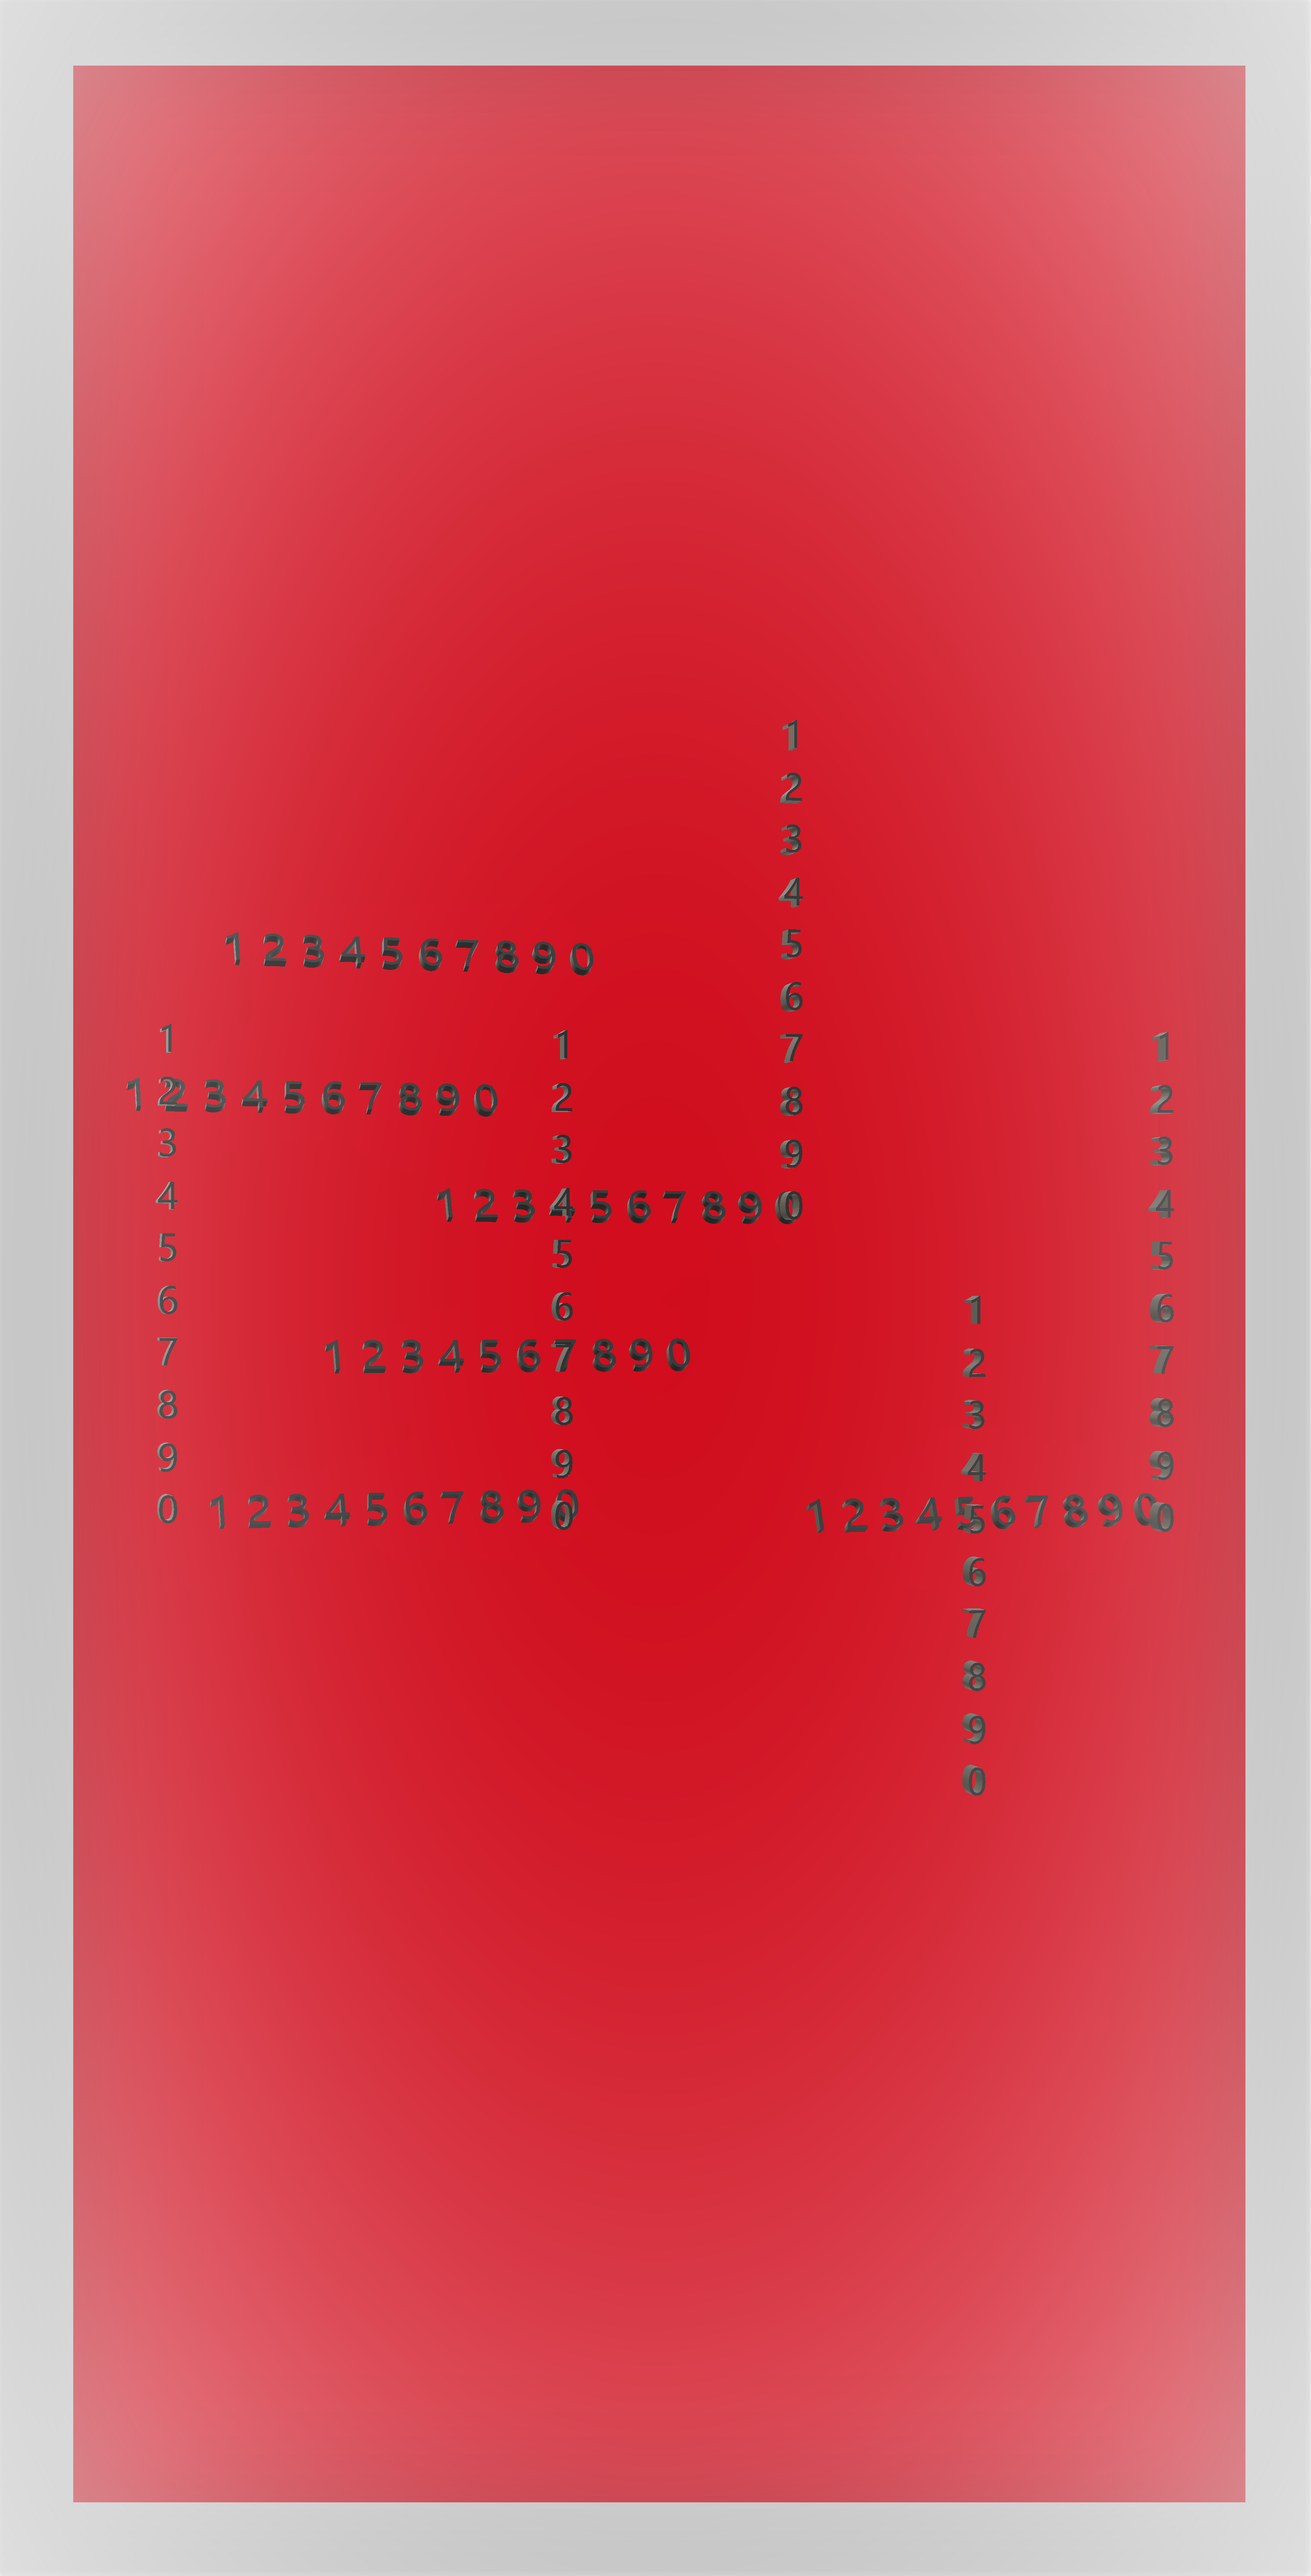
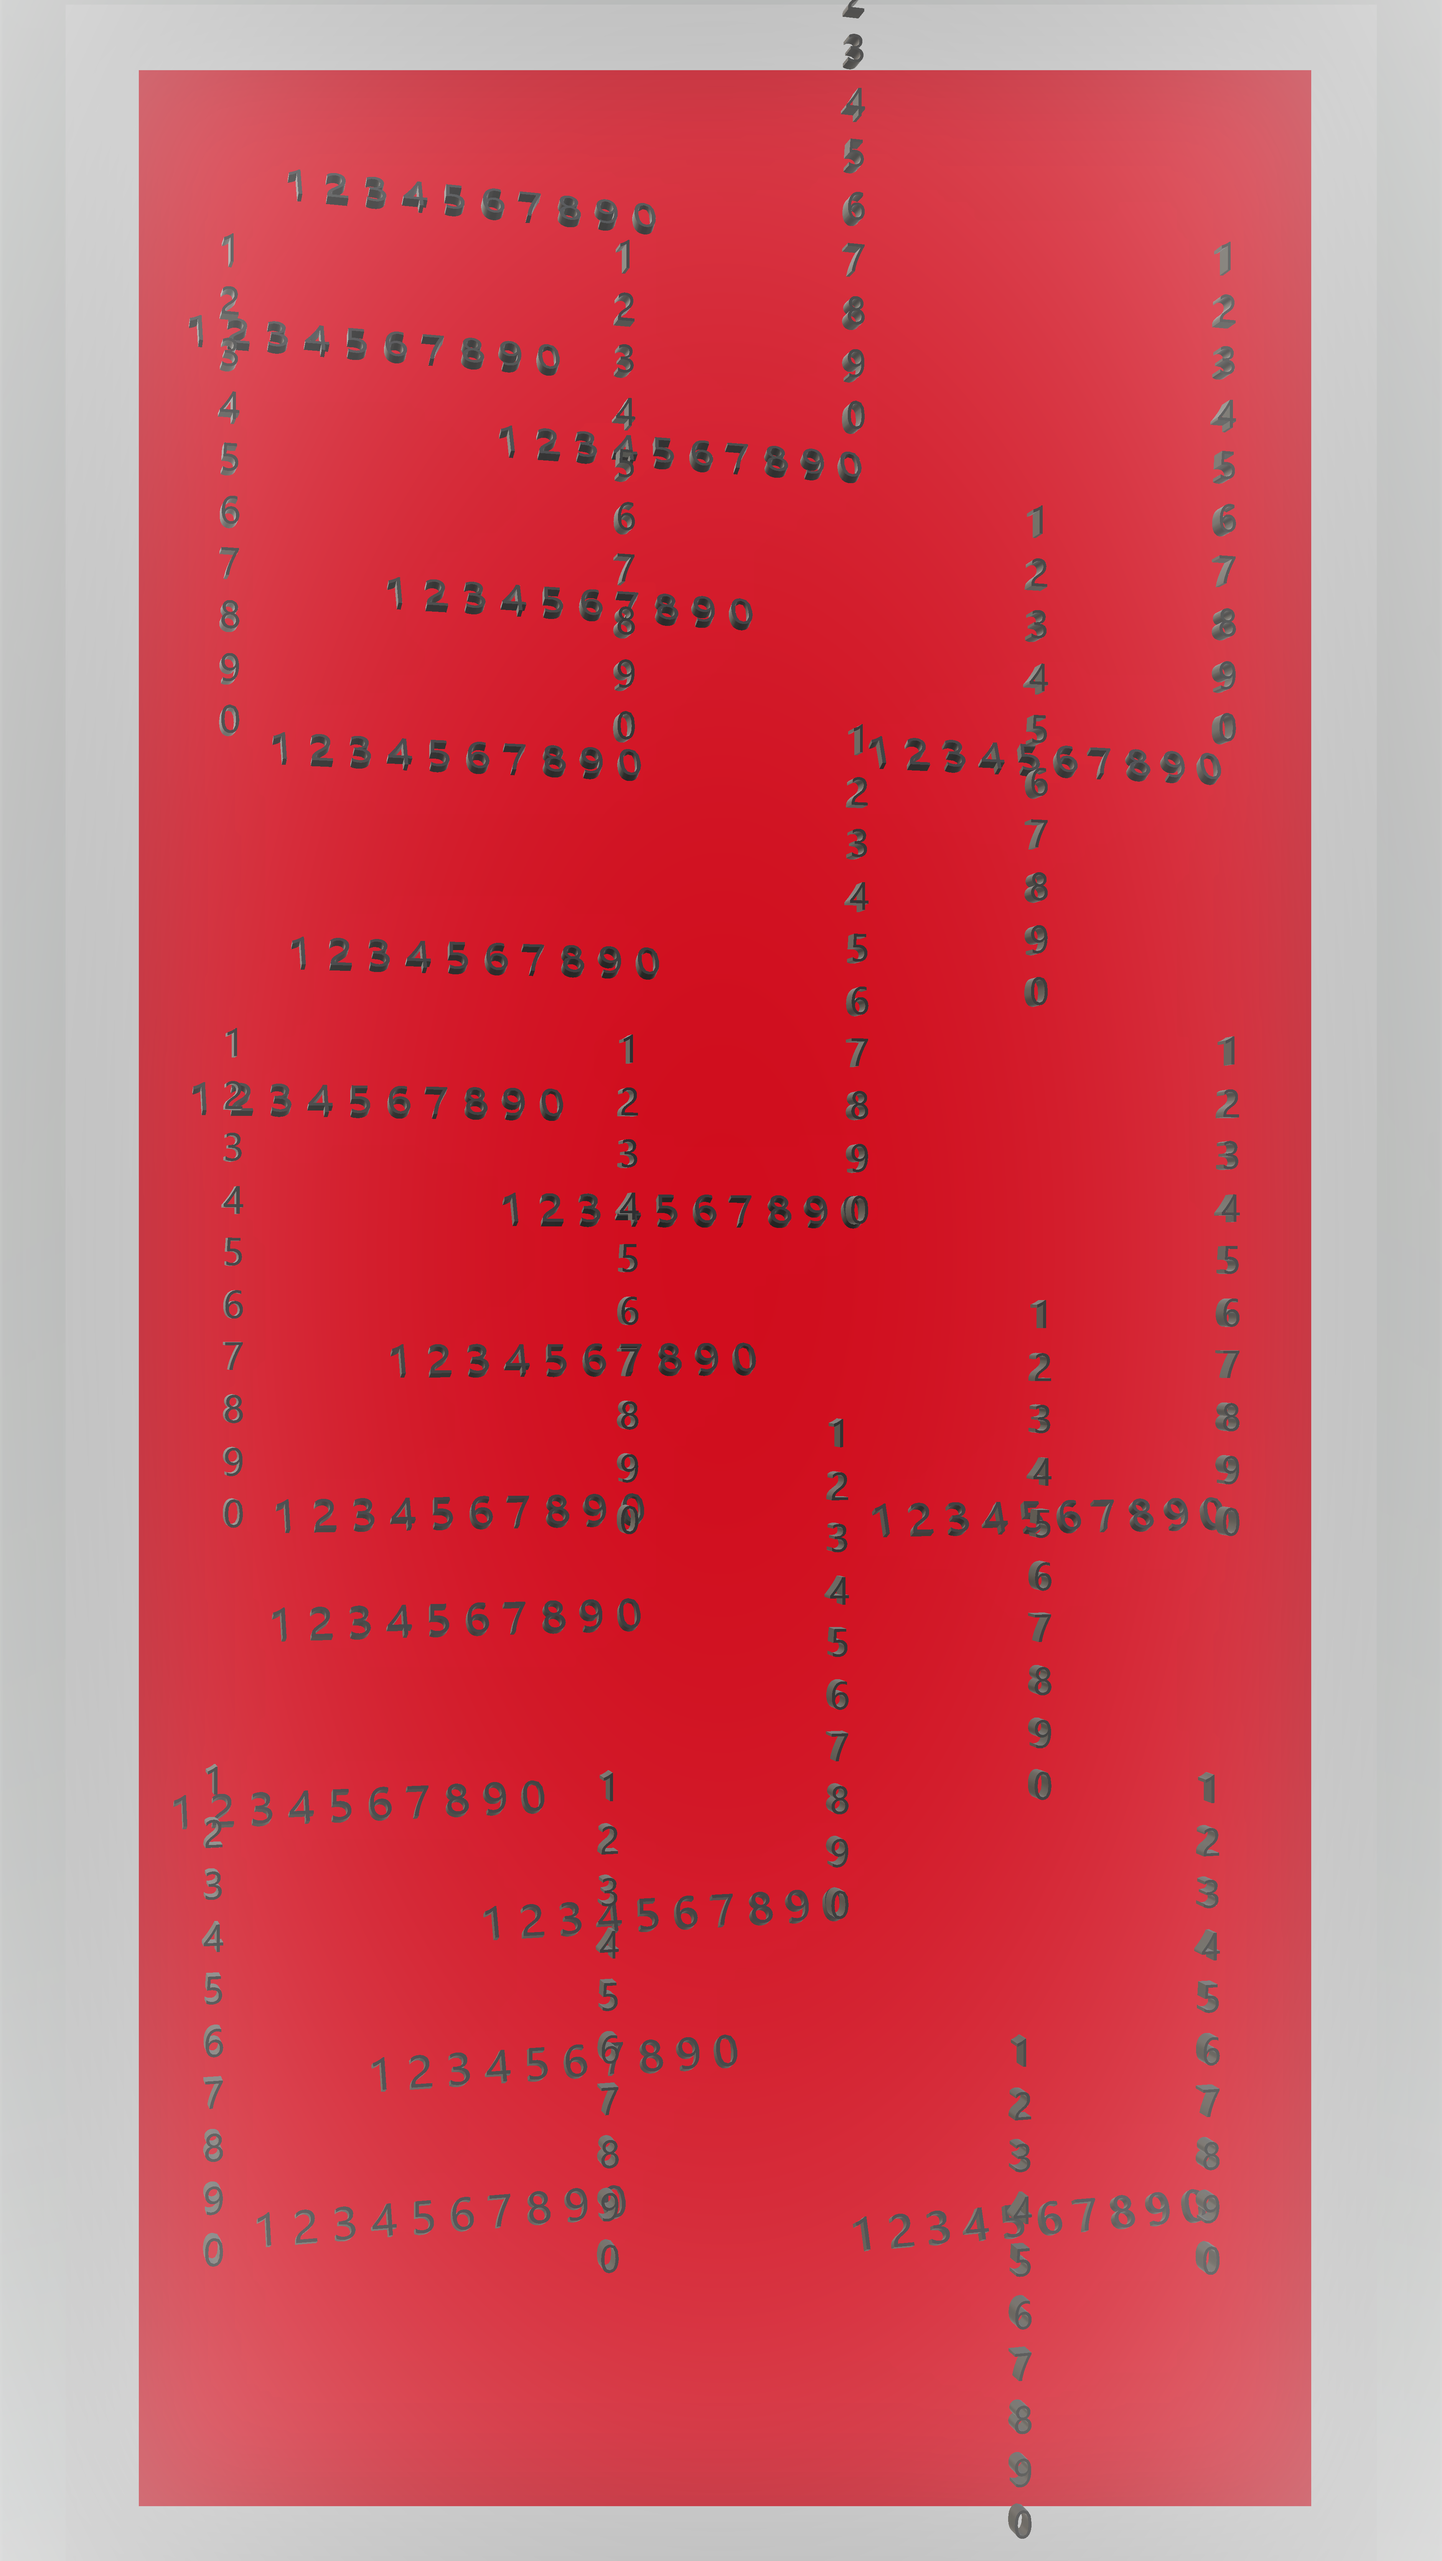
saving changes to guessingGame part1

diff --git a/index.html b/index.html
@@ -25,7 +25,6 @@
           margin-top: 20px;
           border-top: solid 2px black;
           background-color: white;
-          position: fixed;
           bottom: 0;
       }
 
@@ -53,7 +52,6 @@
       body {
           background-image: url('numbers2.png');
           background-size: cover;
-          background-position: center;
           background-repeat: no-repeat;
       }
 
